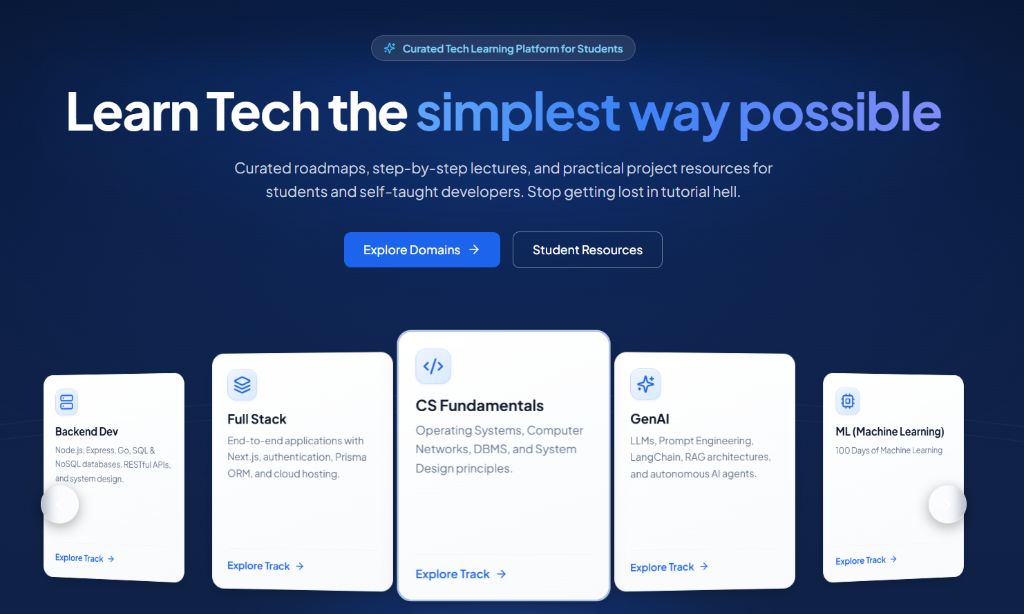
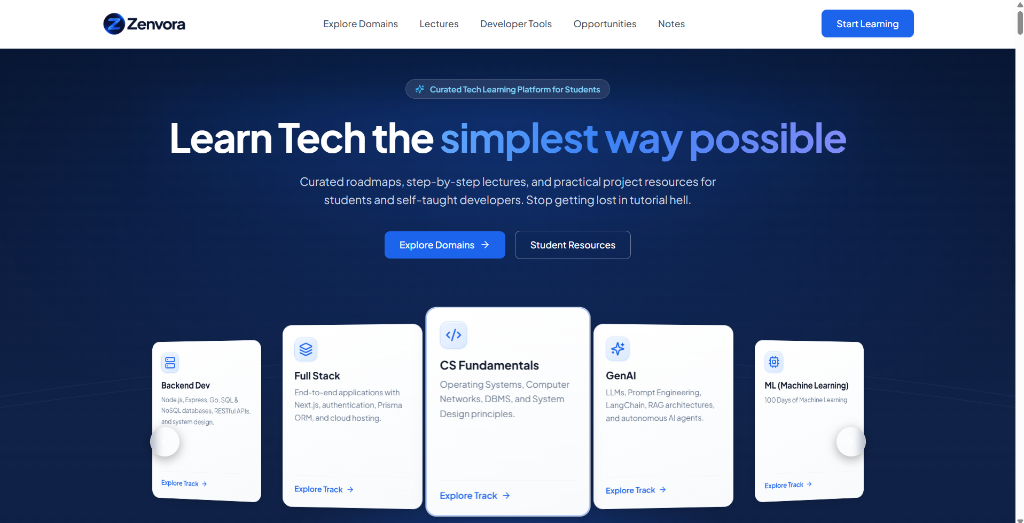
Update Zenvora cover with full-width screenshot and object-cover fit

diff --git a/src/App.jsx b/src/App.jsx
@@ -907,6 +907,8 @@ function App() {
       description: "Curated tech learning platform organizing the developer journey into structured tracks and high-signal resources.",
       tech: ["Next.js 14", "TypeScript", "Tailwind CSS", "Prisma", "PostgreSQL", "NextAuth.js", "Framer Motion"],
       image: "/images/zenvora_mockup.png",
+      imageFit: "object-cover object-top",
+      imageBg: "bg-[#060e24]",
       links: [
         { name: "Website", url: "https://zenvora-platform.vercel.app/", icon: <Globe className="size-3" /> },
         { name: "GitHub", url: "https://github.com/samiralam321/zenvora-platform", icon: <Github className="size-3 text-white" /> }
@@ -1258,11 +1260,11 @@ function App() {
                       <div key={idx} className="w-[280px] sm:w-[325px] flex-shrink-0 snap-start flex flex-col">
                         <BlurFade delay={0.6 + idx * 0.05} className="h-full flex flex-col">
                           <div className="rounded-xl bg-card text-card-foreground flex flex-col overflow-hidden border border-border hover:shadow-lg transition-all duration-300 ease-out h-full group">
-                            <div className="block overflow-hidden relative h-40 bg-white">
+                            <div className={`block overflow-hidden relative h-40 ${project.imageBg || 'bg-white'}`}>
                               <img 
                                 alt={project.title} 
                                 loading="lazy" 
-                                className="h-full w-full object-contain object-center transition-transform duration-500 group-hover:scale-102" 
+                                className={`h-full w-full ${project.imageFit || 'object-contain object-center'} transition-transform duration-500 group-hover:scale-105`} 
                                 src={project.image}
                               />
                             </div>
